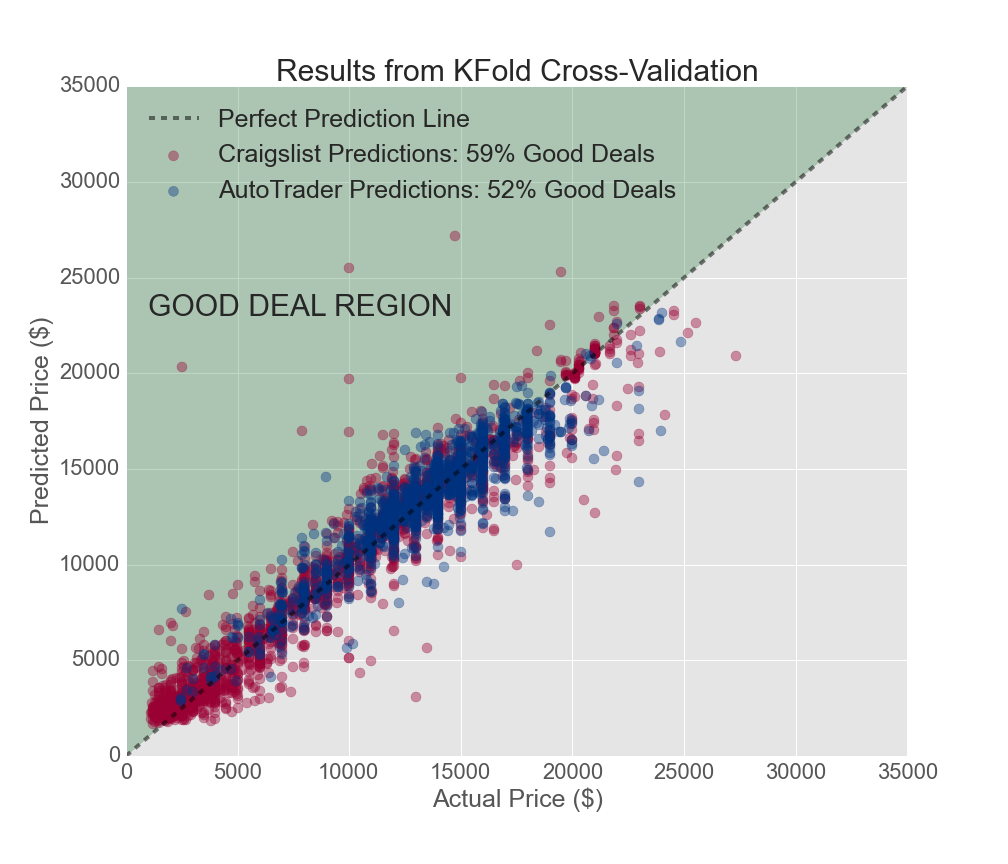
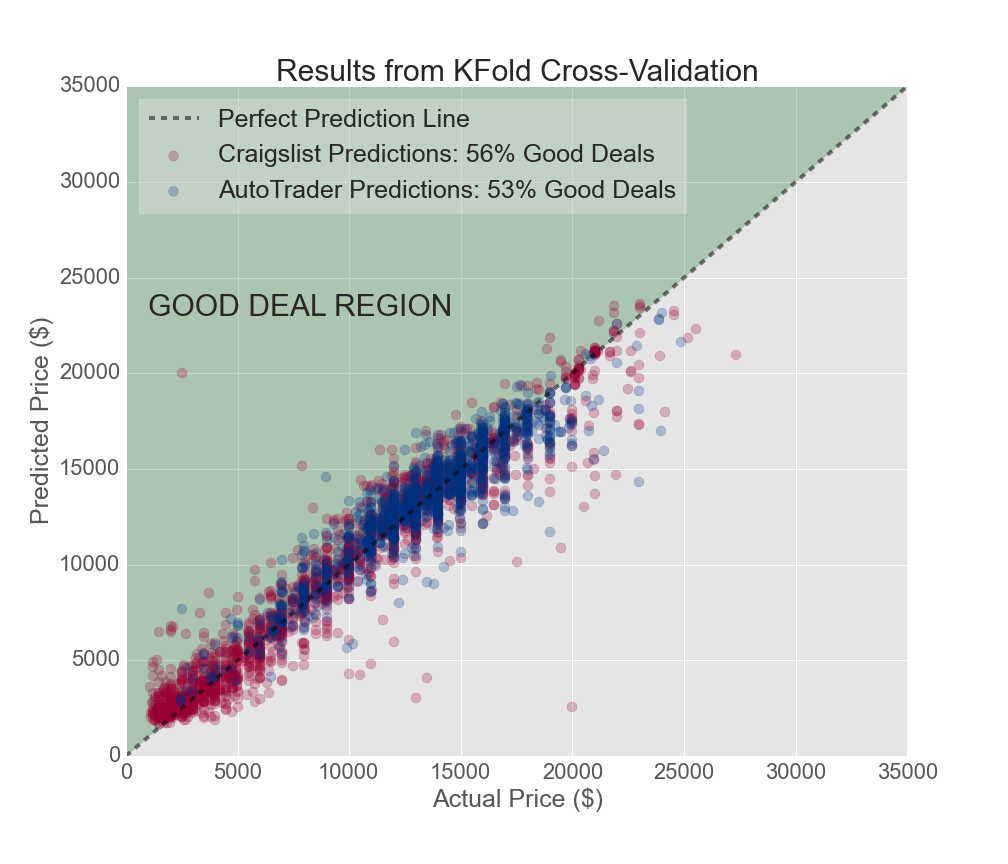
Rename website to DealWheels and re-made figures

diff --git a/app/templates/carcheck.html b/app/templates/carcheck.html
@@ -9,7 +9,7 @@
     <meta name="description" content="">
     <meta name="author" content="">
 
-    <title>Used Car Genie</title>
+    <title>DealWheels</title>
 
     <link rel="stylesheet" href="/static/css/font-awesome.css">
 
@@ -43,7 +43,7 @@
           <div class="masthead clearfix">
             <div class="inner">
               <h3 class="masthead-brand font-head">
-                <a href="{{ url_for('index') }}"><i class="fa fa-car"></i> Used Car Genie</a></h3>
+                <a href="{{ url_for('index') }}"><i class="fa fa-car"></i> DealWheels</a></h3>
               <nav>
                 <ul class="nav masthead-nav">
                   <!-- <li><a href="{{ url_for('carcheck') }}">Check Car</a></li> -->
@@ -79,11 +79,11 @@
                 <td>Year</td>
                 <td>Mileage</td>
                 <td>Listed Price</td>
-                <td>The Genie Price</td>
+                <td>DealWheels Price</td>
                 <td>Savings</td>
              </tr>
               <tr>
-                <td>{{entries['model']}}</td>
+                <td>{{entries['model'].title()}}</td>
                 <td>{{entries['year']}}</td>
                 <td>{{entries['odometer']}}</td>
                 <td>{{entries['price']}}</td>
@@ -96,7 +96,7 @@
          </div>
          <!-- </div> -->
          <p><br></p>
-         <button class = "btntbl consistent-font">See other <i class="fa fa-car"></i></button>
+         <button class = "btntbl consistent-font">See other <i class="fa fa-car"></i> deals</button>
           <p><br></p>
 
           <form align="center" action="/carcheck" method="POST">
@@ -118,7 +118,7 @@
                   <td>Year</td>
                   <td>Mileage</td>
                   <td>Listed Price</td>
-                  <td>The Authority Price</td>
+                  <td>DealWheels Price</td>
                   <td>Savings</td>
                   <td>Link</td>
               </tr>
@@ -126,7 +126,7 @@
           <!-- <tbody class = "expandtbl1"> -->
               {% for df in rec %}
               <tr>
-                  <td>{{df['model']}}</td>
+                  <td>{{df['model'].title()}}</td>
                   <td>{{df['year']}}</td>
                   <td>{{df['odometer']}}</td>
                   <td>{{df['price']}}</td>
@@ -282,7 +282,7 @@
             data: [{{price}}],
             color: "{{color}}"
         }, {
-            name: 'The Genie Price',
+            name: 'DealWheels Price',
             data: [{{pred}}],
             color: "#616161"
         }],

diff --git a/app/templates/index.html b/app/templates/index.html
@@ -9,7 +9,7 @@
     <meta name="description" content="">
     <meta name="author" content="">
 
-    <title>Used Car Price Authority</title>
+    <title>DealWheels</title>
 
     <link rel="stylesheet" href="/static/css/font-awesome.css">
 
@@ -40,7 +40,7 @@
           <div class="masthead clearfix">
             <div class="inner">
               <h3 class="masthead-brand font-head">
-                <a href="{{ url_for('index') }}"><i class="fa fa-car"></i> Used Car Genie</a></h3>
+                <a href="{{ url_for('index') }}"><i class="fa fa-car"></i> DealWheels</a></h3>
               <nav>
                 <ul class="nav masthead-nav">
                   <!-- <li><a href="{{ url_for('carcheck') }}">Check Car</a></li> -->

diff --git a/app/templates/invalid.html b/app/templates/invalid.html
@@ -9,7 +9,7 @@
     <meta name="description" content="">
     <meta name="author" content="">
 
-    <title>Used Car Price Authority</title>
+    <title>DealWheels</title>
 
     <link rel="stylesheet" href="/static/css/font-awesome.css">
 
@@ -40,7 +40,7 @@
           <div class="masthead clearfix">
             <div class="inner">
               <h3 class="masthead-brand font-head">
-                <a href="{{ url_for('index') }}"><i class="fa fa-car"></i> Used Car Genie</a></h3>
+                <a href="{{ url_for('index') }}"><i class="fa fa-car"></i> DealWheels</a></h3>
               <nav>
                 <ul class="nav masthead-nav">
                   <!-- <li><a href="{{ url_for('carcheck') }}">Check Car</a></li> -->

diff --git a/model/encode.py b/model/encode.py
@@ -126,7 +126,8 @@ class Encode():
                 self.df = self.df[self.df['condition'] != 'salvage']
 
                 # Filter ridiculous prices
-                self.df = self.df[(self.df['price'] > 1000) & (self.df['price'] < 80000) ]
+                self.df = self.df[(self.df['price'] > 1000) & \
+                                  (self.df['price'] < 80000) ]
 
             # Autotrader df
             else:
